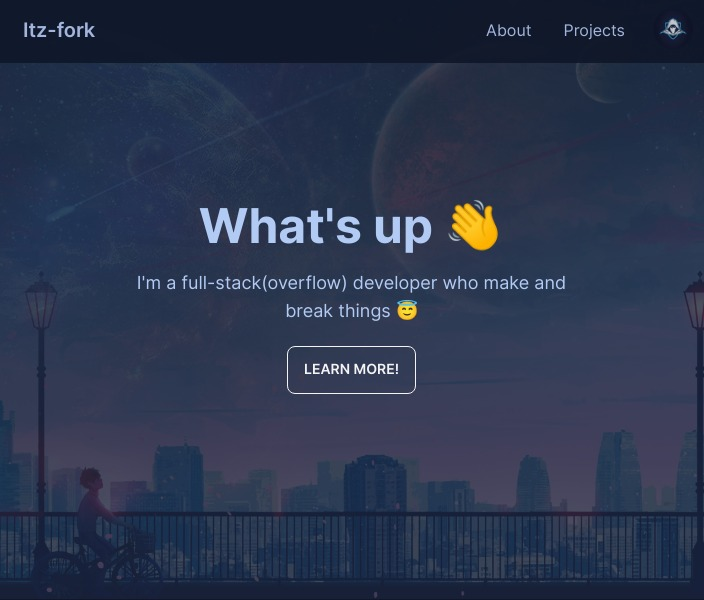
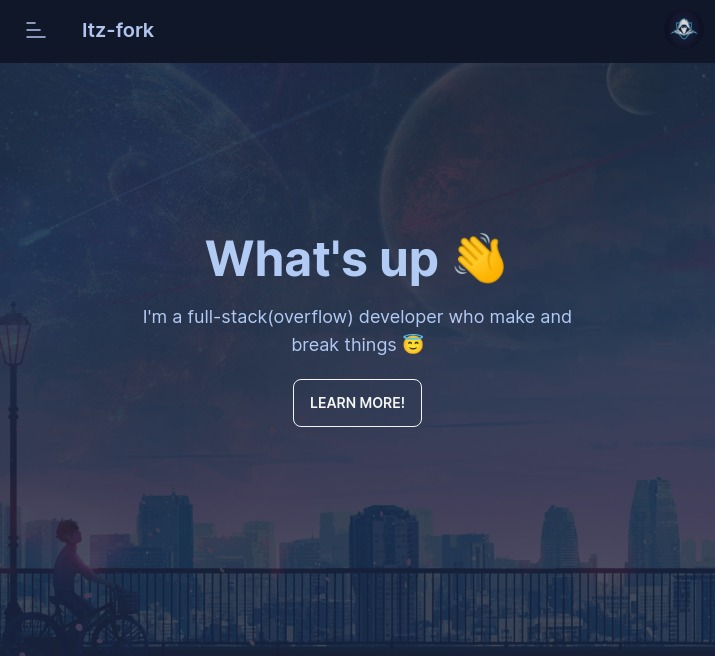
🖼 Updated preview and demo link for the new version

diff --git a/README.md b/README.md
@@ -3,7 +3,7 @@
 <p align="center">
     <img src="stuff/preview.jpeg">
     </br>
-    <a href="https://github.com/Itz-fork">Itz-fork</a>'s simple portfolio made with sveltekit (<a href="https://sveltefolio.vercel.app/">Demo</a>)
+    <a href="https://github.com/Itz-fork">Itz-fork</a>'s simple portfolio made with sveltekit (<a href="https://itz-fork.vercel.app/">Demo</a>)
 </p>
 
 ---
